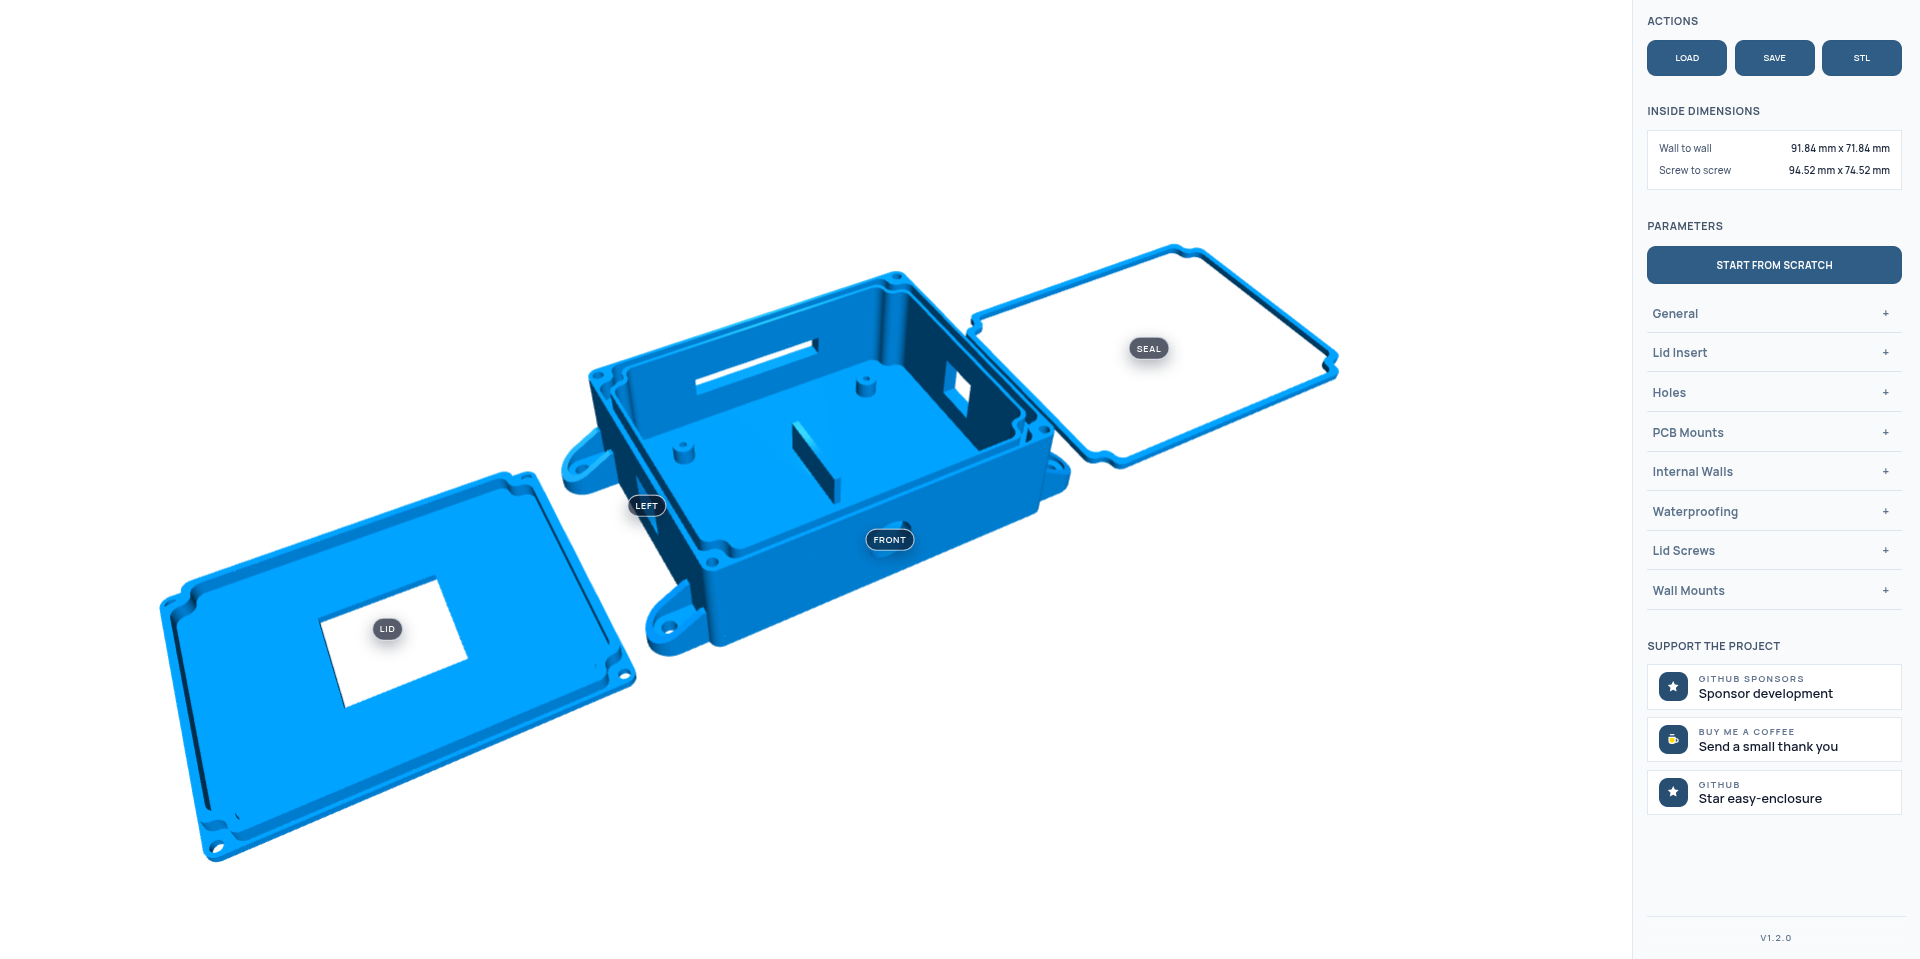
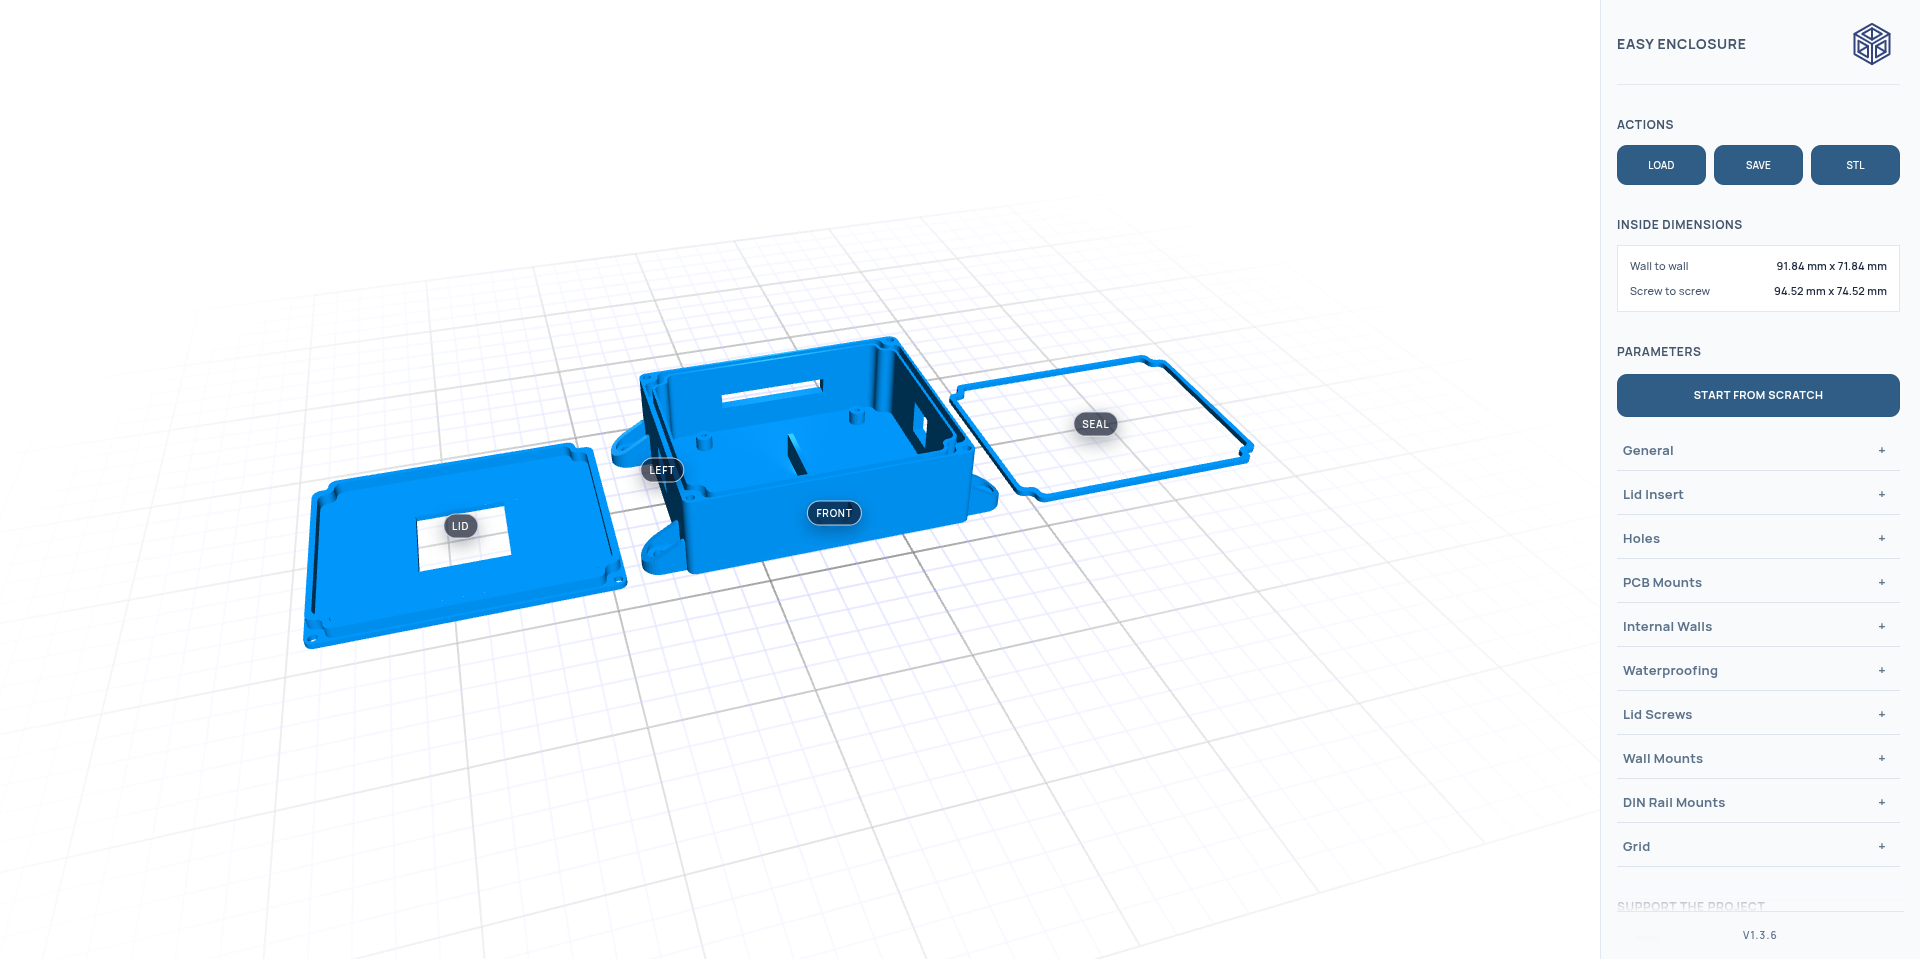
Updated screenshot

diff --git a/src/app/app-version.ts b/src/app/app-version.ts
@@ -1,1 +1,1 @@
-export const APP_VERSION = '1.3.7';
+export const APP_VERSION = '1.3.8';
